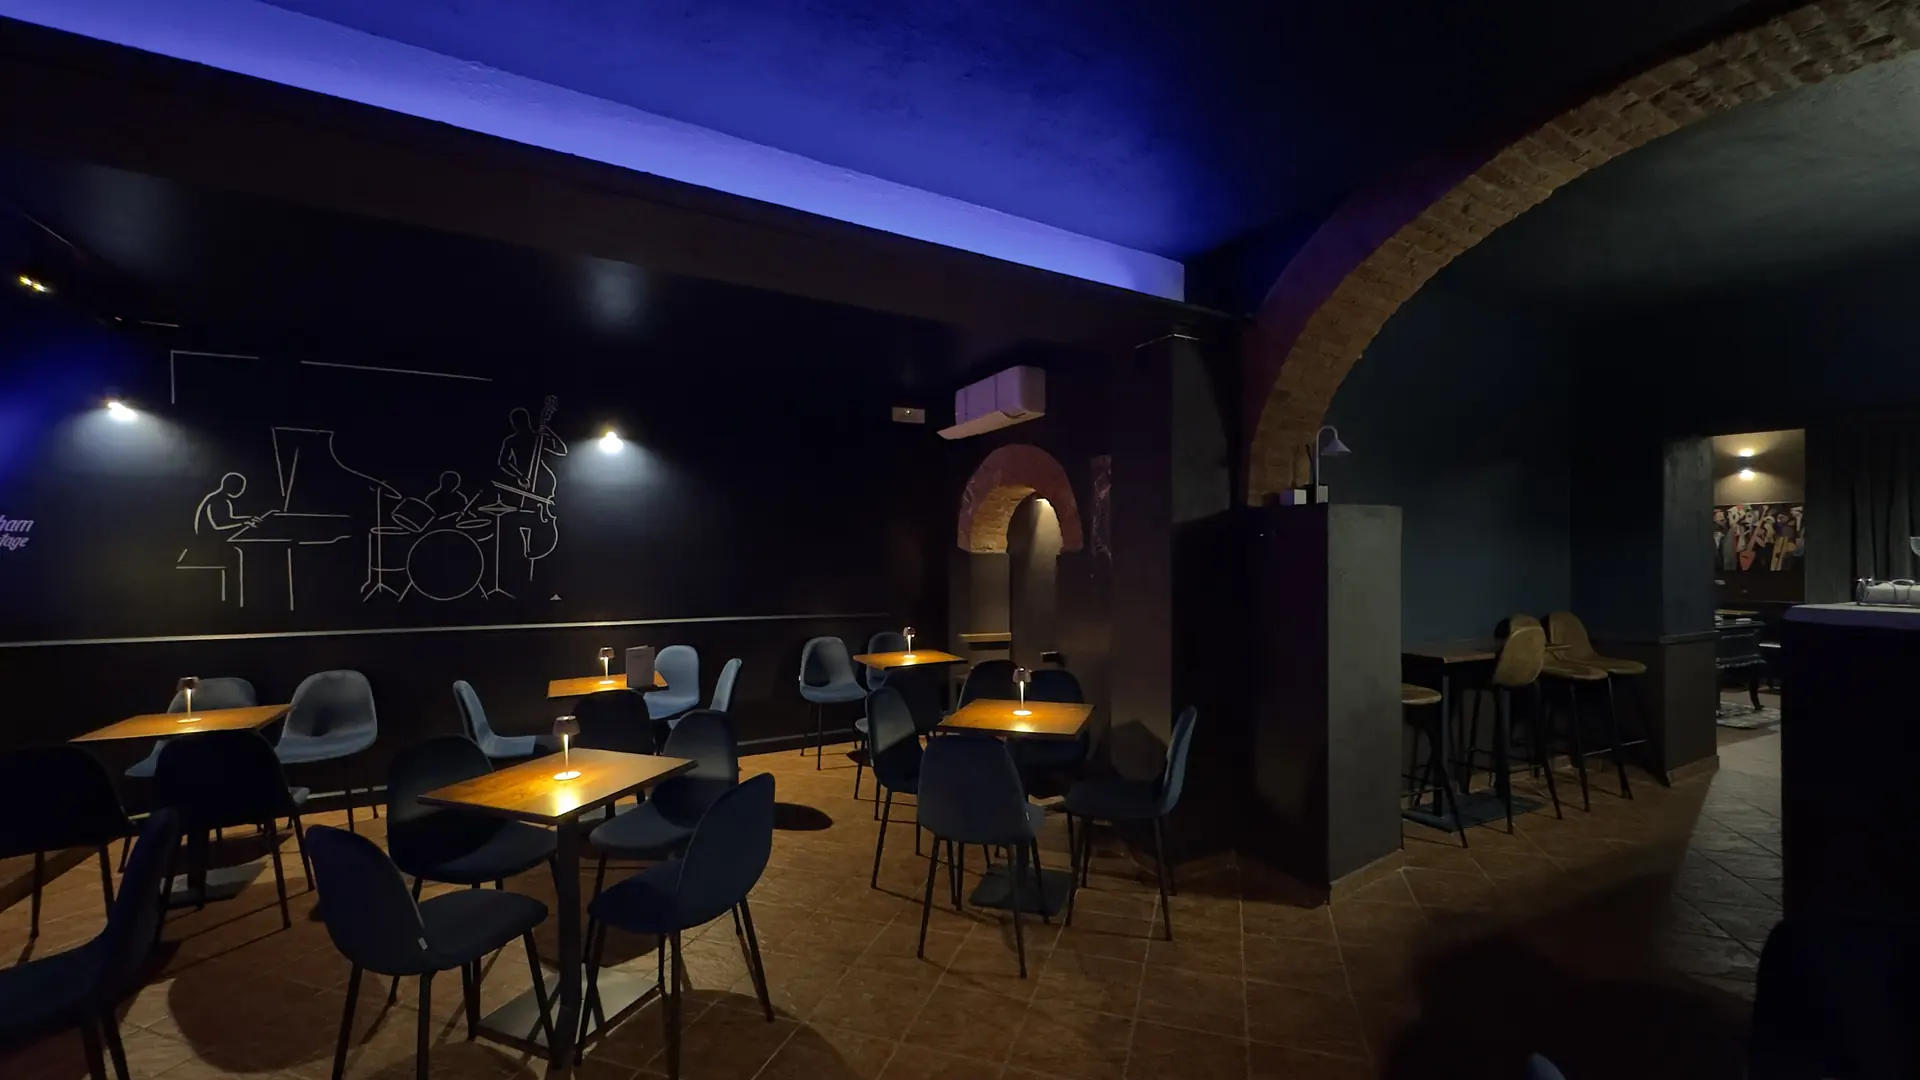
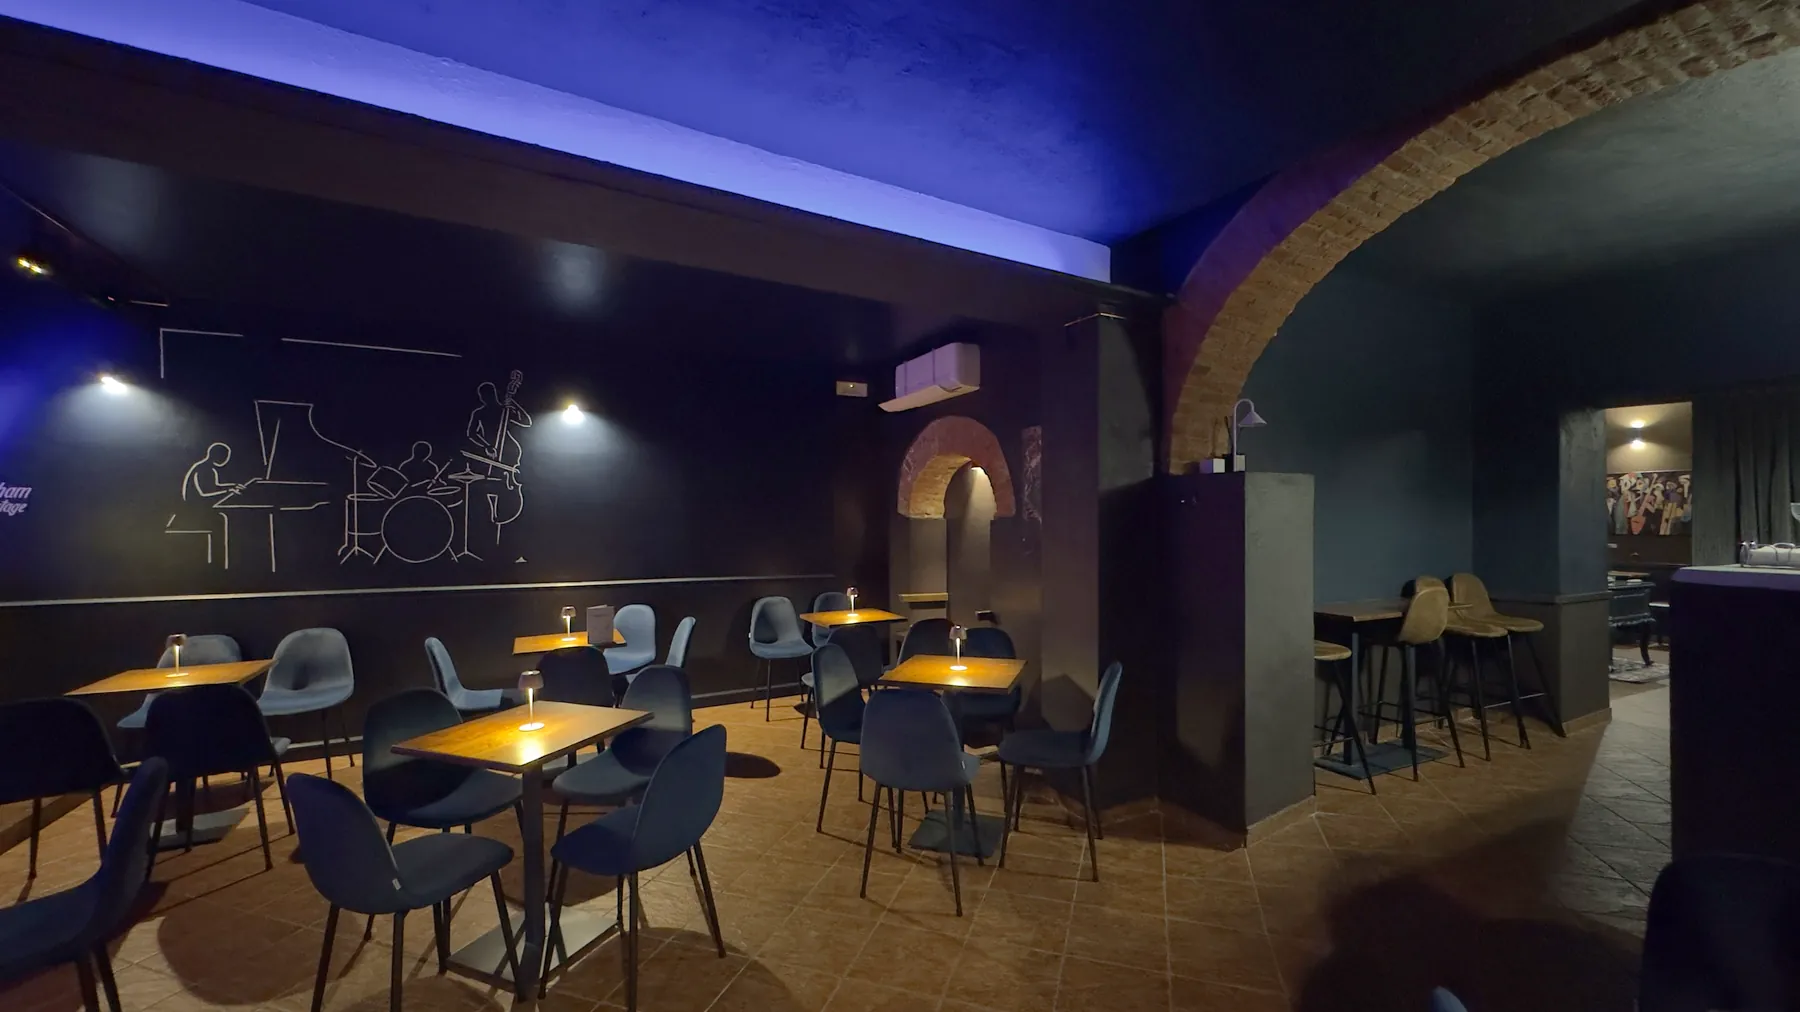
Foto: nuova selezione più viva (16 scatti rivisti), 'Gli spazi' riscritto a capitoli: palco, strumenti, sala blu, sala dei quadri
Claude-Session: https://claude.ai/code/session_01EYaNfWRCWnDZcD11HH5zKU

diff --git a/index.html b/index.html
@@ -540,15 +540,23 @@ footer{background:linear-gradient(180deg,rgba(14,27,42,.55) 0%,rgba(18,48,74,.65
 .intro-empty{background:#070c13}
 .intro-photo{position:absolute;inset:-2%;background:#070c13 url(img/palco.webp) center 55%/cover no-repeat;transform:scale(1.04);will-change:transform;filter:saturate(1.05) brightness(.92)}
 .bar-photo img{object-position:50% 58%}
-.gal{display:grid;grid-template-columns:repeat(2,1fr);gap:10px;grid-auto-rows:clamp(130px,34vw,250px);margin-top:clamp(26px,4vw,46px)}
-@media (min-width:900px){.gal{grid-template-columns:repeat(4,1fr);gap:14px}}
-.g{position:relative;display:block;overflow:hidden;border-radius:8px;border:1px solid var(--line);background:var(--slate);padding:0;cursor:zoom-in;text-align:left}
-.g.w{grid-column:span 2}.g.t{grid-row:span 2}
+.gal{display:grid;gap:clamp(44px,7vw,88px);margin-top:clamp(30px,4vw,52px)}
+.sp-ch{display:grid;gap:14px}
+.sp-ch header{display:flex;align-items:baseline;justify-content:space-between;gap:16px;flex-wrap:wrap;border-bottom:1px solid var(--line);padding-bottom:12px}
+.sp-ch h3{font-size:clamp(28px,3.4vw,42px)}
+.sp-ch header p{color:var(--silver);font-size:15px;max-width:46ch}
+.sp-row{display:grid;gap:clamp(10px,1.4vw,16px)}
+.sp-hero .g{aspect-ratio:21/9}
+.sp-3{grid-template-columns:repeat(3,1fr)}.sp-3 .g{aspect-ratio:3/4.3}
+.sp-2{grid-template-columns:1fr}.sp-2 .g{aspect-ratio:16/10}
+@media (min-width:860px){.sp-2{grid-template-columns:7fr 5fr}.sp-2 .g{aspect-ratio:auto;height:clamp(300px,36vw,470px)}.sp-2.rev{grid-template-columns:5fr 7fr}}
+@media (max-width:560px){.sp-hero .g{aspect-ratio:4/3}.sp-3 .g{aspect-ratio:2/3.1}.sp-3 .g span{left:8px;bottom:8px;font-size:12px}}
+.g{position:relative;display:block;overflow:hidden;border-radius:8px;border:1px solid var(--line);background:var(--slate);padding:0;cursor:zoom-in;text-align:left;width:100%}
 .g img{position:absolute;inset:0;width:100%;height:100%;object-fit:cover;transition:transform .6s,filter .4s;filter:brightness(.9)}
 .g:hover img,.g:focus-visible img{transform:scale(1.04);filter:brightness(1.05)}
 .g::after{content:"";position:absolute;inset:0;background:linear-gradient(180deg,rgba(11,19,29,0) 55%,rgba(11,19,29,.85))}
 .g span{position:absolute;left:14px;bottom:12px;z-index:1;font-size:14px;color:var(--text);font-weight:500}
-.g-cta{display:flex;flex-direction:column;justify-content:center;gap:14px;padding:clamp(18px,3vw,32px);border-radius:8px;border:1px solid rgba(207,212,219,.3);background:linear-gradient(160deg,rgba(44,66,96,.55),rgba(18,29,42,.9))}
+.g-cta{display:flex;flex-direction:column;justify-content:center;align-items:flex-start;gap:14px;padding:clamp(18px,3vw,32px);border-radius:8px;border:1px solid rgba(207,212,219,.3);background:linear-gradient(160deg,rgba(44,66,96,.55),rgba(18,29,42,.9))}
 .g-cta h3{font-size:clamp(26px,3vw,38px)}
 .g-cta p{color:var(--silver);font-size:15px}
 .lb{position:fixed;inset:0;z-index:100;display:none;align-items:center;justify-content:center;background:rgba(5,9,14,.92);padding:20px}
@@ -648,14 +656,36 @@ footer{background:linear-gradient(180deg,rgba(14,27,42,.55) 0%,rgba(18,48,74,.65
       <h2>Gli spazi</h2>
       <p class="lead">Una sala blu con il palco in fondo, una sala più raccolta con i quadri, il bancone. Tutto con luce soffusa, come si usa nei jazz club.</p>
       <div class="gal" id="gal">
-        <button type="button" class="g w" data-full="img/palco.webp" data-cap="Il palco"><img src="img/palco.webp" alt="Il palco di Mòrk's Place con batteria, contrabbasso e pianoforte" loading="lazy"><span>Il palco</span></button>
-        <button type="button" class="g t" data-full="img/contrabbasso.webp" data-cap="Il contrabbasso"><img src="img/contrabbasso.webp" alt="Il contrabbasso sotto l'insegna luminosa" loading="lazy"><span>Il contrabbasso</span></button>
-        <button type="button" class="g t" data-full="img/pianoforte.webp" data-cap="Il pianoforte"><img src="img/pianoforte.webp" alt="Il pianoforte nel fascio di luce" loading="lazy"><span>Il pianoforte</span></button>
-        <button type="button" class="g w" data-full="img/sala.webp" data-cap="La sala blu"><img src="img/sala.webp" alt="La sala blu con i tavoli illuminati e il murale del trio" loading="lazy"><span>La sala blu</span></button>
+        <section class="sp-ch sp-hero">
+          <header><h3>Il palco</h3><p>Il palco intitolato a Bobby Durham: batteria, contrabbasso e pianoforte, sotto l'insegna del locale.</p></header>
+          <div class="sp-row"><button type="button" class="g" data-full="img/palco.webp" data-cap="Il palco"><img style="object-position:50% 55%" src="img/palco.webp" alt="Il palco di Mòrk's Place con batteria, contrabbasso e pianoforte" loading="lazy"><span>Il palco</span></button></div>
+        </section>
+        <section class="sp-ch">
+          <header><h3>Gli strumenti</h3><p>Sono sempre lì, pronti: chi suona da noi trova tutto montato.</p></header>
+          <div class="sp-row sp-3">
+            <button type="button" class="g" data-full="img/batteria.webp" data-cap="La batteria"><img src="img/batteria.webp" alt="La batteria arancione sul tappeto, sul palco" loading="lazy"><span>La batteria</span></button>
+            <button type="button" class="g" data-full="img/pianoforte-sgabello.webp" data-cap="Il pianoforte"><img style="object-position:40% 50%" src="img/pianoforte-sgabello.webp" alt="Il pianoforte con lo sgabello rosso sotto la scritta Bobby Durham stage" loading="lazy"><span>Il pianoforte</span></button>
+            <button type="button" class="g" data-full="img/contrabbasso.webp" data-cap="Il contrabbasso"><img src="img/contrabbasso.webp" alt="Il contrabbasso sotto l'insegna luminosa" loading="lazy"><span>Il contrabbasso</span></button>
+          </div>
+        </section>
+        <section class="sp-ch">
+          <header><h3>La sala blu</h3><p>Tavoli con la lampada accesa e il murale del trio sulla parete. Si ascolta da vicino.</p></header>
+          <div class="sp-row sp-2">
+            <button type="button" class="g" data-full="img/sala.webp" data-cap="La sala blu"><img style="object-position:50% 74%" src="img/sala.webp" alt="La sala blu con i tavoli illuminati e il murale del trio" loading="lazy"><span>La sala blu</span></button>
+            <button type="button" class="g" data-full="img/tavolo-palco.webp" data-cap="Un tavolo, una lampada"><img style="object-position:25% 50%" src="img/tavolo-palco.webp" alt="Un tavolo con la lampada accesa, il palco sullo sfondo" loading="lazy"><span>Un tavolo, una lampada</span></button>
+          </div>
+        </section>
+        <section class="sp-ch">
+          <header><h3>La sala dei quadri</h3><p>Più raccolta, con i quadri colorati sul tema della musica e la scrivania antica.</p></header>
+          <div class="sp-row sp-2 rev">
+            <button type="button" class="g" data-full="img/sala-marrone.webp" data-cap="La scrivania antica"><img style="object-position:50% 70%" src="img/sala-marrone.webp" alt="La seconda sala con la scrivania antica e il tappeto" loading="lazy"><span>La scrivania antica</span></button>
+            <button type="button" class="g" data-full="img/quadri.webp" data-cap="I quadri"><img src="img/quadri.webp" alt="La seconda sala con i quadri colorati e le lampade sui tavoli" loading="lazy"><span>I quadri</span></button>
+          </div>
+        </section>
+        <div class="g-cta"><h3>Un tavolo per martedì o giovedì?</h3><p>Scrivici su WhatsApp, il messaggio è già pronto.</p><a class="btn metal wa-go" href="#prenota"><span class="lm-label">Prenota un tavolo</span></a></div>
+        <button type="button" class="g t" data-full="img/pianoforte-sgabello.webp" data-cap="Il pianoforte"><img src="img/pianoforte-sgabello.webp" alt="Il pianoforte con lo sgabello rosso sotto la scritta Bobby Durham stage" loading="lazy"><span>Il pianoforte</span></button>
+        <button type="button" class="g t" data-full="img/tavolo-palco.webp" data-cap="Un tavolo, una lampada"><img style="object-position:22% 50%" src="img/tavolo-palco.webp" alt="Un tavolo con la lampada accesa, il palco sullo sfondo" loading="lazy"><span>Un tavolo, una lampada</span></button>
         <button type="button" class="g w" data-full="img/murale.webp" data-cap="Il murale del trio"><img src="img/murale.webp" alt="Il murale del trio jazz sulla parete" loading="lazy"><span>Il murale del trio</span></button>
-        <button type="button" class="g t" data-full="img/sala-marrone.webp" data-cap="La sala dei quadri"><img src="img/sala-marrone.webp" alt="La seconda sala con i quadri e la scrivania antica" loading="lazy"><span>La sala dei quadri</span></button>
-        <button type="button" class="g t" data-full="img/tavolo.webp" data-cap="Un tavolo, una lampada"><img src="img/tavolo.webp" alt="Un tavolo con la lampada accesa, il palco sullo sfondo" loading="lazy"><span>Un tavolo, una lampada</span></button>
-        <div class="g-cta w"><h3>Un tavolo per martedì o giovedì?</h3><p>Scrivici su WhatsApp, il messaggio è già pronto.</p><a class="btn metal wa-go" href="#prenota"><span class="lm-label">Prenota un tavolo</span></a></div>
       </div>
     </div>
   </section>
